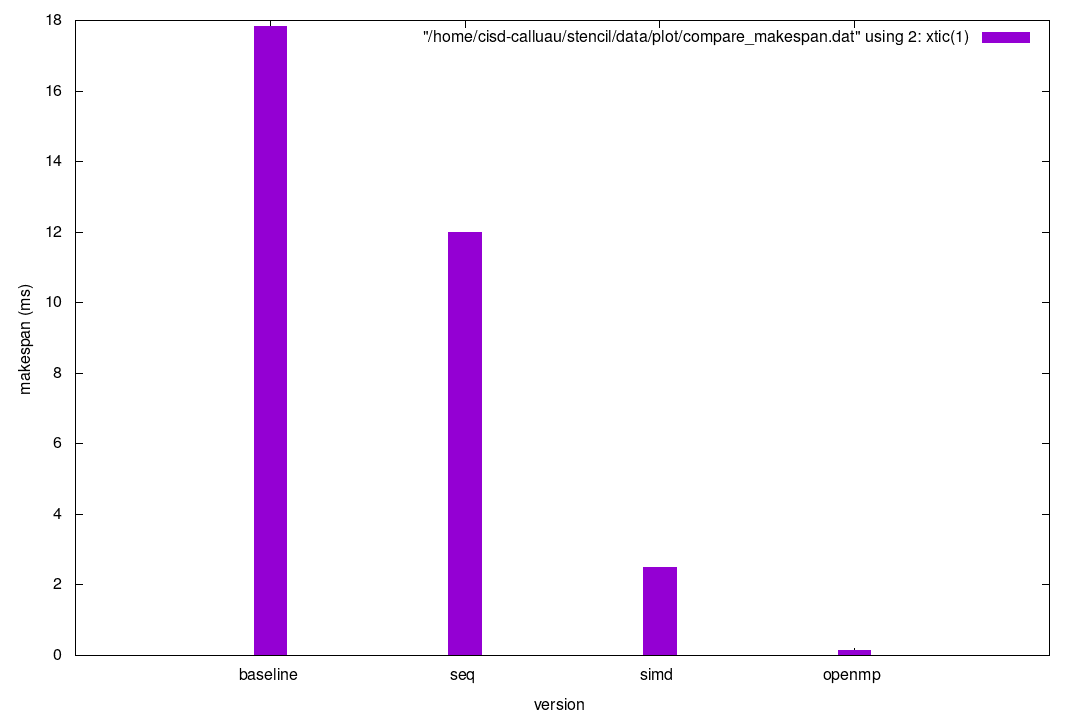
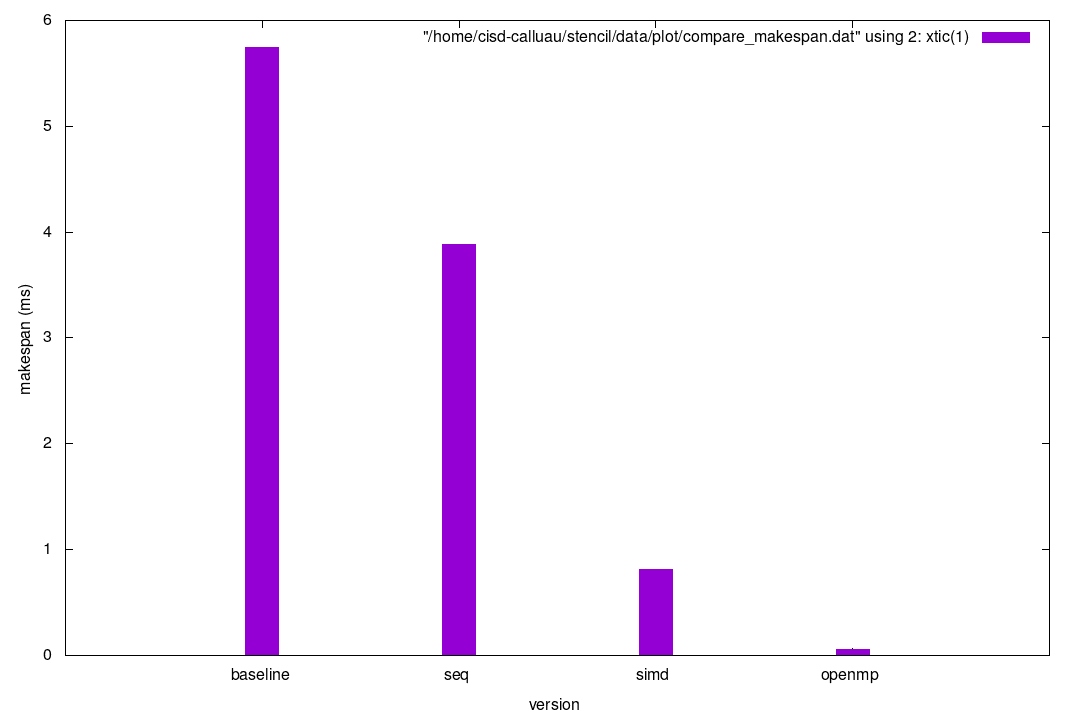
update plots and add tests

diff --git a/src/stencil-openmp.c b/src/stencil-openmp.c
@@ -52,20 +52,16 @@ int main() {
         }
     }
 
-    for (h = 0; h < 100; h++) {
+    for (h = 0; h < TIMESTEPS; h++) {
         stencil3d(a, b);
    
-        #pragma omp parallel for private(i) private(j)
+        #pragma omp parallel for private(i) private(j) reduction(+:s)
         for (k = 0; k < SIZEZ; k++) {
-            double s_local = 0.0;
             for (i = 0; i < SIZEX; i++) {
                 for (j = 0; j < SIZEY; j++) {
-                    s_local += a[k * SIZEY * SIZEX + i * SIZEY + j];
+                    s = s + a[k * SIZEY * SIZEX + i * SIZEY + j];
                 }
             }
-            
-            // #pragma omp critical
-            s += s_local;         
         }
 
         stencil3d(b, a);

diff --git a/src/stencil-openmp-block.c b/src/stencil-openmp-block.c
@@ -69,7 +69,7 @@ int main() {
         }
     }
 
-    for (h = 0; h < 100; h++) {
+    for (h = 0; h < TIMESTEPS; h++) {
         stencil3d(a, b);
         
         // #pragma omp parallel for private(i) private(j)

diff --git a/src/stencil-baseline.c b/src/stencil-baseline.c
@@ -51,7 +51,7 @@ int main() {
         }
     }
 
-    for (h = 0; h < 100; h++) {
+    for (h = 0; h < TIMESTEPS; h++) {
         stencil3d(a, b);
         
         for (i = 0; i < SIZEX; i++) {

diff --git a/src/stencil-simd.c b/src/stencil-simd.c
@@ -51,7 +51,7 @@ int main() {
         }
     }
 
-    for (h = 0; h < 100; h++) {
+    for (h = 0; h < TIMESTEPS; h++) {
         stencil3d(a, b);
         
         for (k = 0; k < SIZEZ; k++) {

diff --git a/include/stencil/stencil.h b/include/stencil/stencil.h
@@ -19,6 +19,10 @@
 #define BLOCKSIZE 4
 #endif
 
+#ifndef TIMESTEPS
+#define TIMESTEPS 32
+#endif
+
 inline int max(int a, int b) {
     return (a>=b)? a : b;
 }

diff --git a/README.md b/README.md
@@ -21,5 +21,12 @@ make tests
 make bench
 ```
 
-## Results
+### To do
+[x] openmp
+[x] simd
+[ ] openacc
+[ ] tiled
+[ ] cuda
 
+## Speedup results
+![Speedup results](./data/plot/compare_speedup.png)
